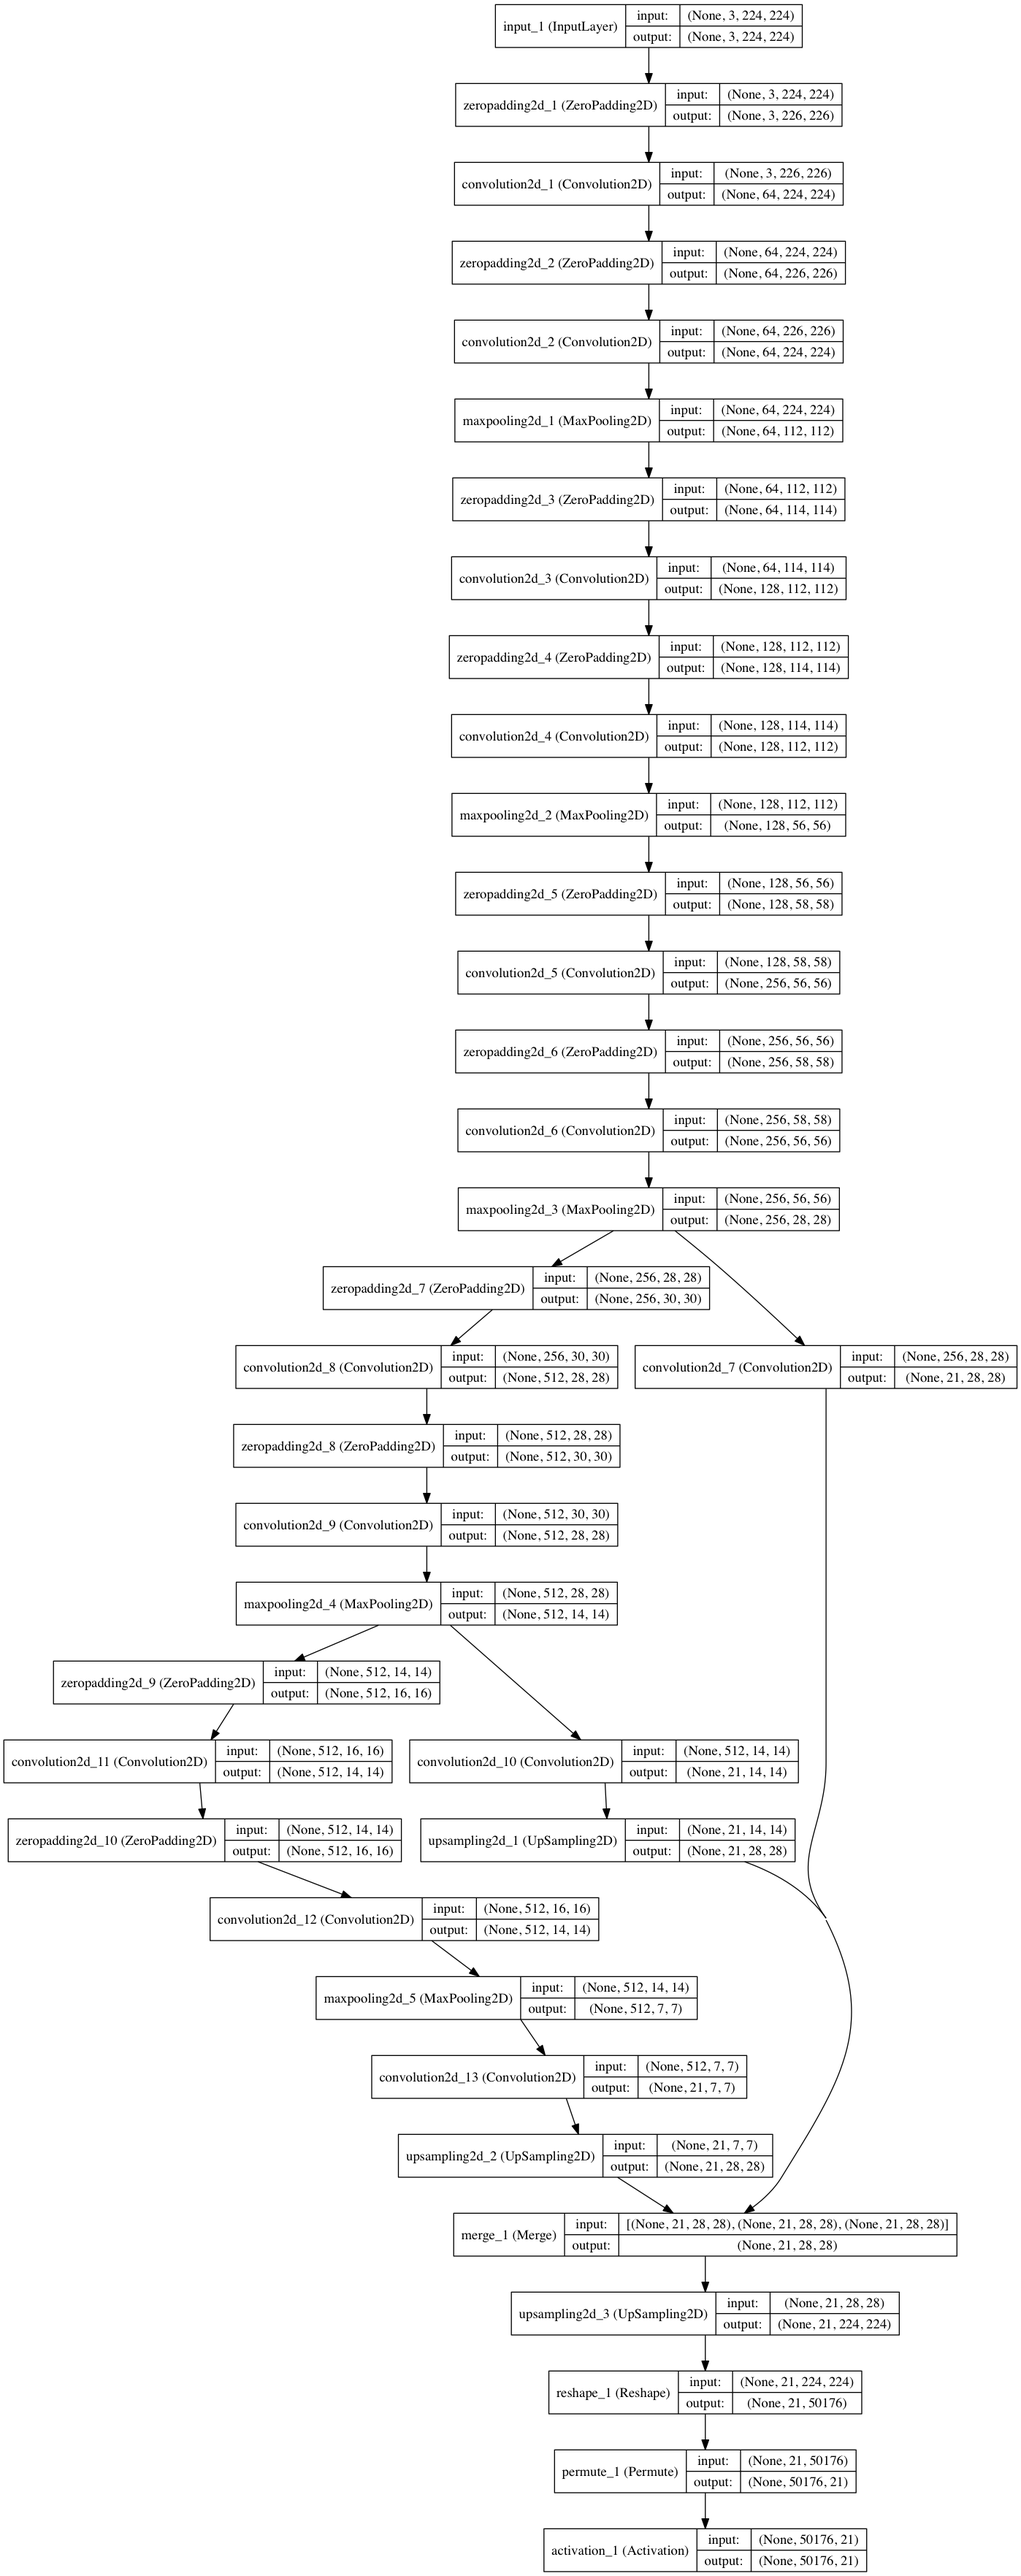
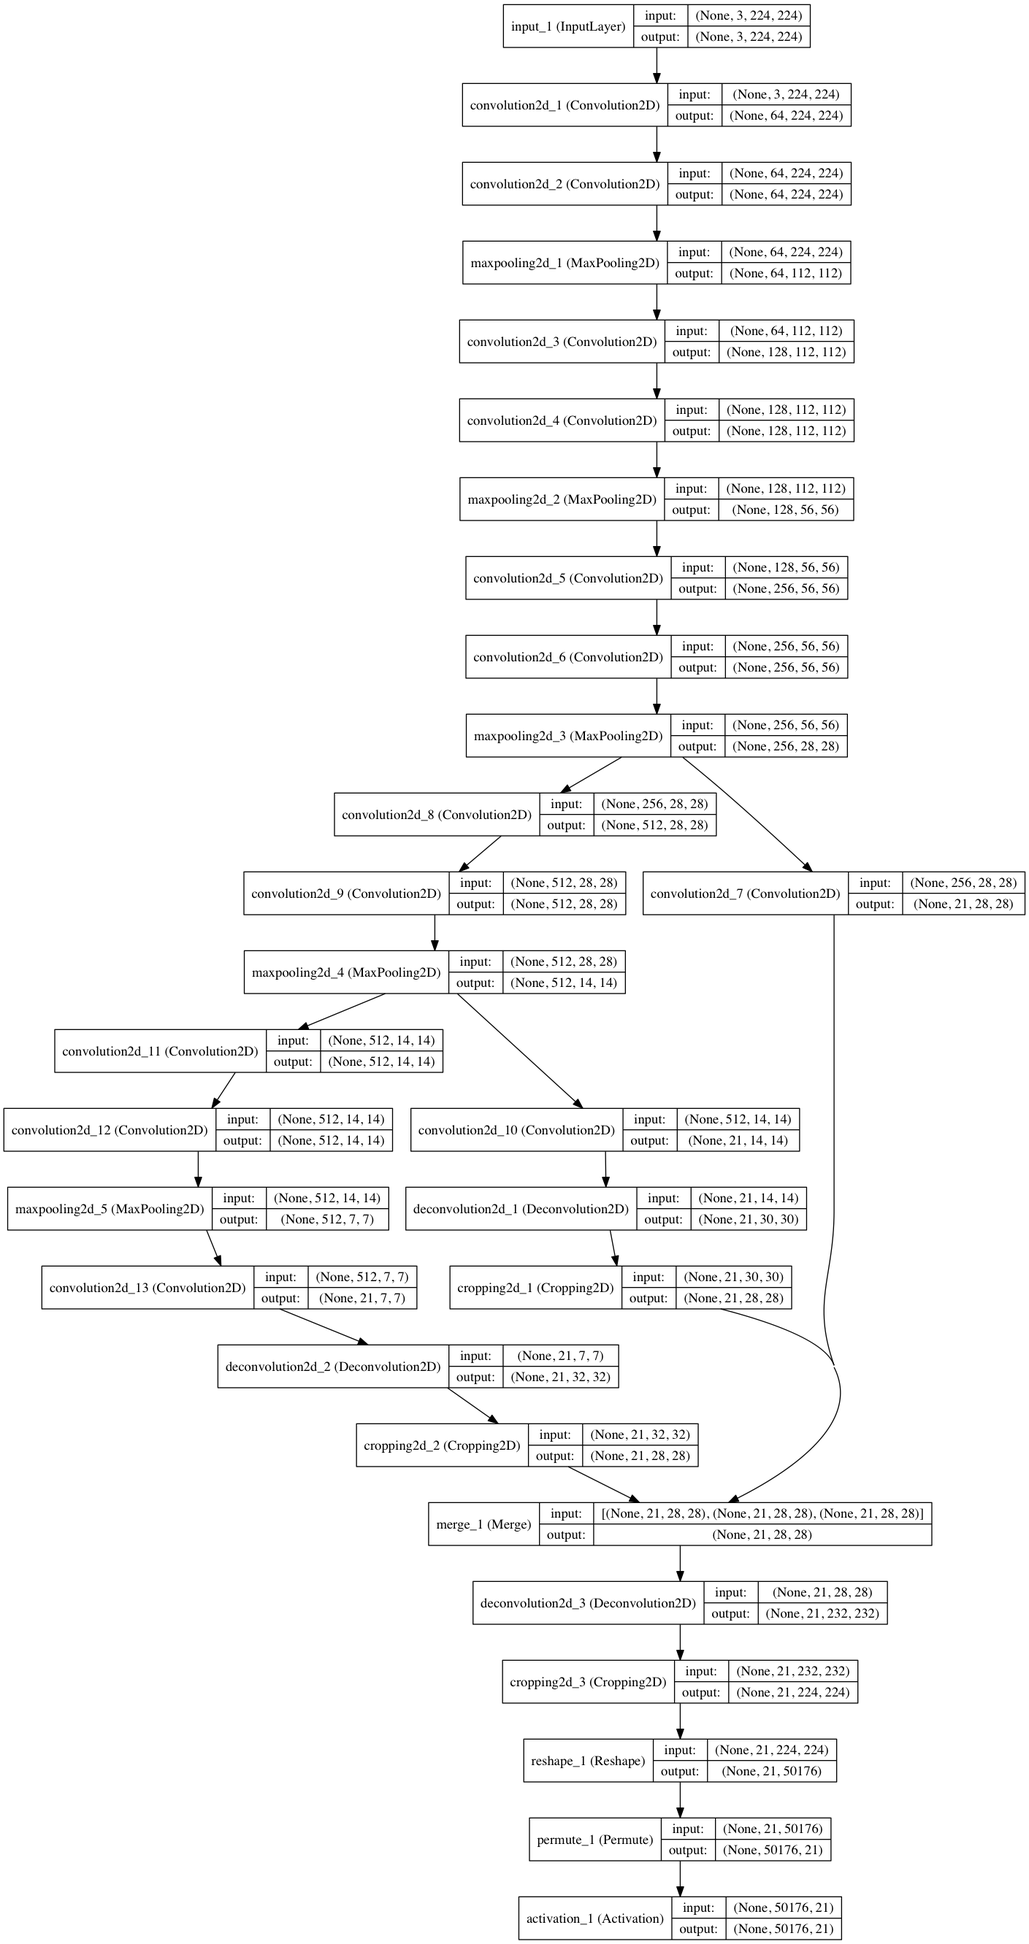
Completion

diff --git a/model.py b/model.py
@@ -1,4 +1,4 @@
-from keras.layers import merge, Lambda, Flatten, Dense, Convolution2D, MaxPooling2D, Input, Reshape, Permute, UpSampling2D, ZeroPadding2D
+from keras.layers import merge, Lambda, Convolution2D, Deconvolution2D, MaxPooling2D, Input, Reshape, Permute, ZeroPadding2D, UpSampling2D, Cropping2D
 from keras.layers.core import Activation
 from keras.models import Model
 from keras.utils.visualize_util import model_to_dot, plot
@@ -8,9 +8,6 @@ from keras import backend as K
 
 import cv2
 import numpy as np
-import matplotlib.pyplot as plt
-
-## Please use tensorflow as backend
 
 def create_model():
 
@@ -19,58 +16,61 @@ def create_model():
     #(samples, channels, rows, cols)
     input_img = Input(shape=(3, 224, 224))
     #(3*224*224)
-    x = ZeroPadding2D(padding=(1, 1))(input_img)
-    x = Convolution2D(64, 3, 3, activation='relu',border_mode='valid')(x)
-    x = ZeroPadding2D(padding=(1, 1))(x)
-    x = Convolution2D(64, 3, 3, activation='relu',border_mode='valid')(x)
+    x = Convolution2D(64, 3, 3, activation='relu',border_mode='same')(input_img)
+    x = Convolution2D(64, 3, 3, activation='relu',border_mode='same')(x)
     x = MaxPooling2D((2, 2), strides=(2, 2))(x)
     #(64*112*112)
-    x = ZeroPadding2D(padding=(1, 1))(x)
-    x = Convolution2D(128, 3, 3, activation='relu',border_mode='valid')(x)
-    x = ZeroPadding2D(padding=(1, 1))(x)
-    x = Convolution2D(128, 3, 3, activation='relu',border_mode='valid')(x)
+    x = Convolution2D(128, 3, 3, activation='relu',border_mode='same')(x)
+    x = Convolution2D(128, 3, 3, activation='relu',border_mode='same')(x)
     x = MaxPooling2D((2, 2), strides=(2, 2))(x)
     #(128*56*56)
-    x = ZeroPadding2D(padding=(1, 1))(x)
-    x = Convolution2D(256, 3, 3, activation='relu',border_mode='valid')(x)
-    x = ZeroPadding2D(padding=(1, 1))(x)
-    x = Convolution2D(256, 3, 3, activation='relu',border_mode='valid')(x)
+    x = Convolution2D(256, 3, 3, activation='relu',border_mode='same')(x)
+    x = Convolution2D(256, 3, 3, activation='relu',border_mode='same')(x)
     x = MaxPooling2D((2, 2), strides=(2, 2))(x)
-    #(256*28*28)
+    #(256*56*56)
 
     #split layer
     p3 = x
-    p3 = Convolution2D(FCN_CLASSES, 1, 1)(p3)
+    p3 = Convolution2D(FCN_CLASSES, 1, 1,activation='relu')(p3)
     #(21*28*28)
 
-    x = ZeroPadding2D(padding=(1, 1))(x)
-    x = Convolution2D(512, 3, 3, activation='relu',border_mode='valid')(x)
-    x = ZeroPadding2D(padding=(1, 1))(x)
-    x = Convolution2D(512, 3, 3, activation='relu',border_mode='valid')(x)
+    x = Convolution2D(512, 3, 3, activation='relu',border_mode='same')(x)
+    x = Convolution2D(512, 3, 3, activation='relu',border_mode='same')(x)
     x = MaxPooling2D((2, 2), strides=(2, 2))(x)
     #(512*14*14)
 
     #split layer
     p4 = x
-    p4 = Convolution2D(FCN_CLASSES, 1, 1)(p4)
-    u4 = UpSampling2D(size=(2,2))(p4)
+    p4 = Convolution2D(FCN_CLASSES, 1, 1, activation='relu')(p4)
+    p4 = Deconvolution2D(FCN_CLASSES, 4, 4,
+            output_shape=(None, FCN_CLASSES, 30, 30),
+            subsample=(2, 2),
+            border_mode='valid')(p4)
+    p4 = Cropping2D(cropping=((1, 1), (1, 1)))(p4)
+
     #(21*28*28)
 
-    x = ZeroPadding2D(padding=(1, 1))(x)
-    x = Convolution2D(512, 3, 3, activation='relu',border_mode='valid')(x)
-    x = ZeroPadding2D(padding=(1, 1))(x)
-    x = Convolution2D(512, 3, 3, activation='relu',border_mode='valid')(x)
+    x = Convolution2D(512, 3, 3, activation='relu',border_mode='same')(x)
+    x = Convolution2D(512, 3, 3, activation='relu',border_mode='same')(x)
     x = MaxPooling2D((2, 2), strides=(2, 2))(x)
     #(512*7*7)
 
     p5 = x
-    p5 = Convolution2D(FCN_CLASSES, 1, 1,activation='relu',border_mode='valid')(p5)
-    u5 = UpSampling2D(size=(4,4))(p5)
+    p5 = Convolution2D(FCN_CLASSES, 1, 1, activation='relu')(p5)
+    p5 = Deconvolution2D(FCN_CLASSES, 8, 8,
+            output_shape=(None, FCN_CLASSES, 32, 32),
+            subsample=(4, 4),
+            border_mode='valid')(p5)
+    p5 = Cropping2D(cropping=((2, 2), (2, 2)))(p5)
     #(21*28*28)
 
     # merge scores
-    x = merge([p3, u4, u5], mode='concat', concat_axis=0)
-    x = UpSampling2D(size=(8,8))(x)
+    merged = merge([p3, p4, p5], mode='sum')
+    x = Deconvolution2D(FCN_CLASSES, 16, 16,
+            output_shape=(None, FCN_CLASSES, 232, 232),
+            subsample=(8, 8),
+            border_mode='valid')(merged)
+    x = Cropping2D(cropping=((4, 4), (4, 4)))(x)
     x = Reshape((FCN_CLASSES,224*224))(x)
     x = Permute((2,1))(x)
     out = Activation("softmax")(x)
@@ -88,5 +88,5 @@ def to_json(model):
 
 if __name__ == "__main__":
     model = create_model()
-    visualize_model(model)
-    to_json(model)
+    #visualize_model(model)
+    #to_json(model)

diff --git a/train.py b/train.py
@@ -4,21 +4,22 @@ from data import generate_arrays_from_file
 from keras.models import model_from_json
 import cv2
 import numpy as np
-import matplotlib.pyplot as plt
+import os
 
-def train(test=False):
+import os
+os.environ['KERAS_BACKEND'] = 'theano'
+#for using gpu
+#os.environ['THEANO_FLAGS']='mode=FAST_RUN,device=gpu0,floatX=float32,optimizer=fast_compile'
+
+def train(path):
     model = create_model()
     model.compile(loss="categorical_crossentropy",
                   optimizer='adadelta',
                   metrics=["accuracy"])
-    model.fit_generator(generate_arrays_from_file('./train.txt'),
-        samples_per_epoch=1400, nb_epoch=100)
+    model.fit_generator(generate_arrays_from_file(path),
+        samples_per_epoch=20, nb_epoch=15)
     model.save_weights('weights.hdf5')
     return
 
-def make_graph(history):
-    pass
-
 if __name__ == "__main__":
-    #train(test=True)
-    train()
+    train('./train.txt')

diff --git a/predict.py b/predict.py
@@ -3,7 +3,6 @@ from model import create_model
 from keras.models import model_from_json
 import cv2
 import numpy as np
-import matplotlib.pyplot as plt
 
 def predict(img_path):
     model = create_model()
@@ -11,7 +10,6 @@ def predict(img_path):
                   optimizer='adadelta',
                   metrics=["accuracy"])
     model.load_weights("weights.hdf5")
-    #model.load_weights("test_model_weight.hdf5")
 
     path_to_train = "/Users/kento_watanabe/Desktop/data_for_fcn/train_voc2012_seg_224/"
     data = cv2.imread(path_to_train+"2011_003255.jpg")
@@ -21,7 +19,6 @@ def predict(img_path):
 
     output = model.predict_on_batch(data)
     output = np.argmax(output[0],axis=1).reshape((224,224))
-    print(output)
     return output
 
 def visualize(output, plot=True):

diff --git a/data.py b/data.py
@@ -18,7 +18,6 @@ def generate_arrays_from_file(path):
             img, target = process_line(name)
             yield (img, target)
 
-
 def process_line(name):
     path_to_train = "/Users/kento_watanabe/Desktop/data_for_fcn/train_voc2012_seg_224/"
     path_to_target = "/Users/kento_watanabe/Desktop/data_for_fcn/npy_target_224_voc12/"
@@ -26,14 +25,7 @@ def process_line(name):
     img = img.astype('float32')
     img /= 255
     img = img.reshape((1,3,224,224))
-
     target = np.load(path_to_target+ name +".npy")
     target = np.asarray(binarylab(target))
     target = target.reshape((1,224*224,21))
-
     return img, target
-
-if __name__ == "__main__":
-    #test
-    a = generate_arrays_from_file("./train.txt")
-    print(a)

diff --git a/README.md b/README.md
@@ -11,12 +11,10 @@ FCN (Fully Convolutional Network) is deep fully convolutional neural network arc
 
 ## Caution
 
-私は普段からバックエンドにtensorflowを使っているので、あとで気づいたのですが、theanoだと動かないみたいです。もしこんなクソコードでも参考にしてくれる人がいるならば、バックエンドはtensorflowを指定して実行してください。
-
-`KERAS_BACKEND=tensorflow python train.py`
+私は普段からバックエンドにtheanoを使っているので、あとから気づいたのですが、tensorflowだと動かないみたいです。Deconvolution2Dでerrorを吐きます。もしこんなクソコードでも参考にしてくれる人がいるならば、バックエンドはtheanoを指定して実行してください。(一応、実行する時にtheanoが選ばれるようになっています。)
 
 上のようにoptionを設定すれば大丈夫です。  
-時間があれば、theanoでもちゃんと動くように直したいとおもいます。また根本的に間違っているかもしれないので原因がわかる方はこちらの[ブログ](http://ket-30.hatenablog.com)にコメントしていただくと、ありがたいです。
+時間があれば、tensorflowでもちゃんと動くように直したいとおもいます。また根本的に間違っているかもしれないので原因がわかる方はこちらの[ブログ](http://ket-30.hatenablog.com)にコメントしていただくと、ありがたいです。
 
 Please use tensorflow as backend when you use this code because this couldn't work on theano backend. You can change backend by writing like this.
 
